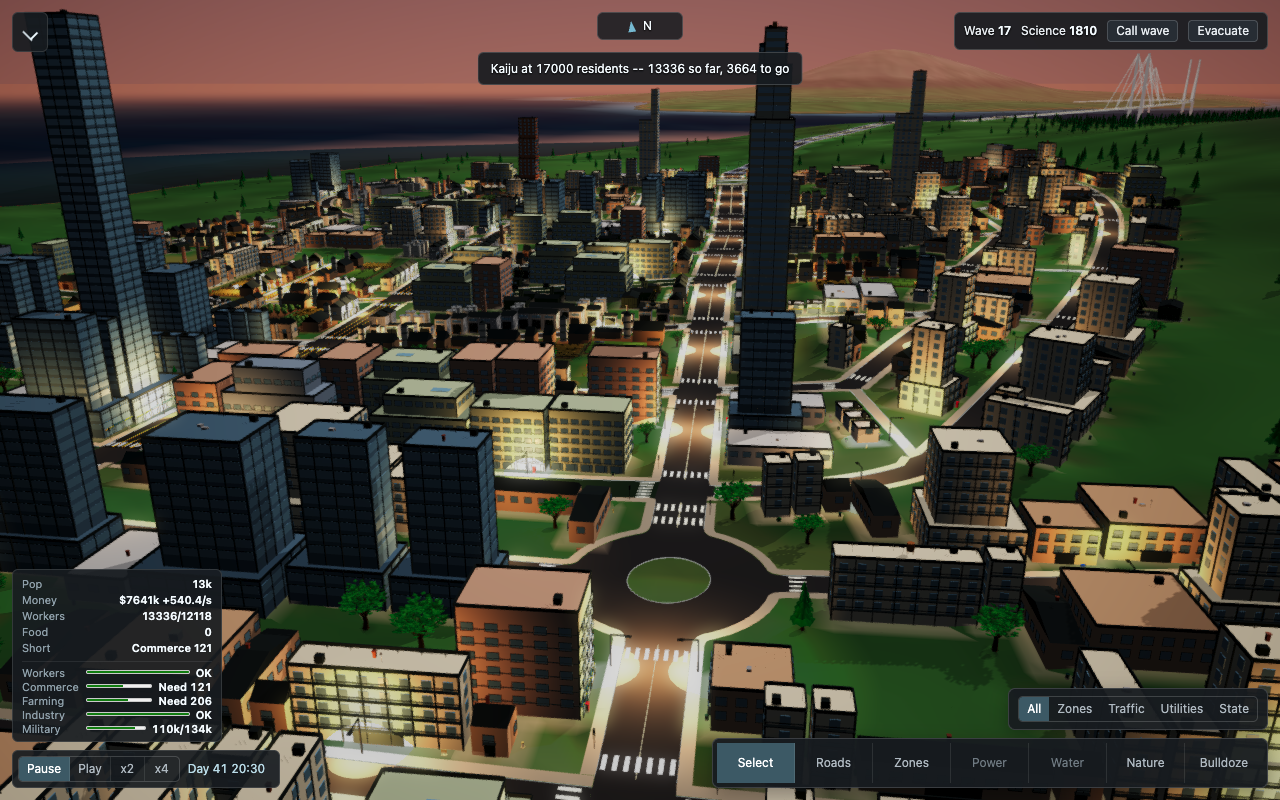
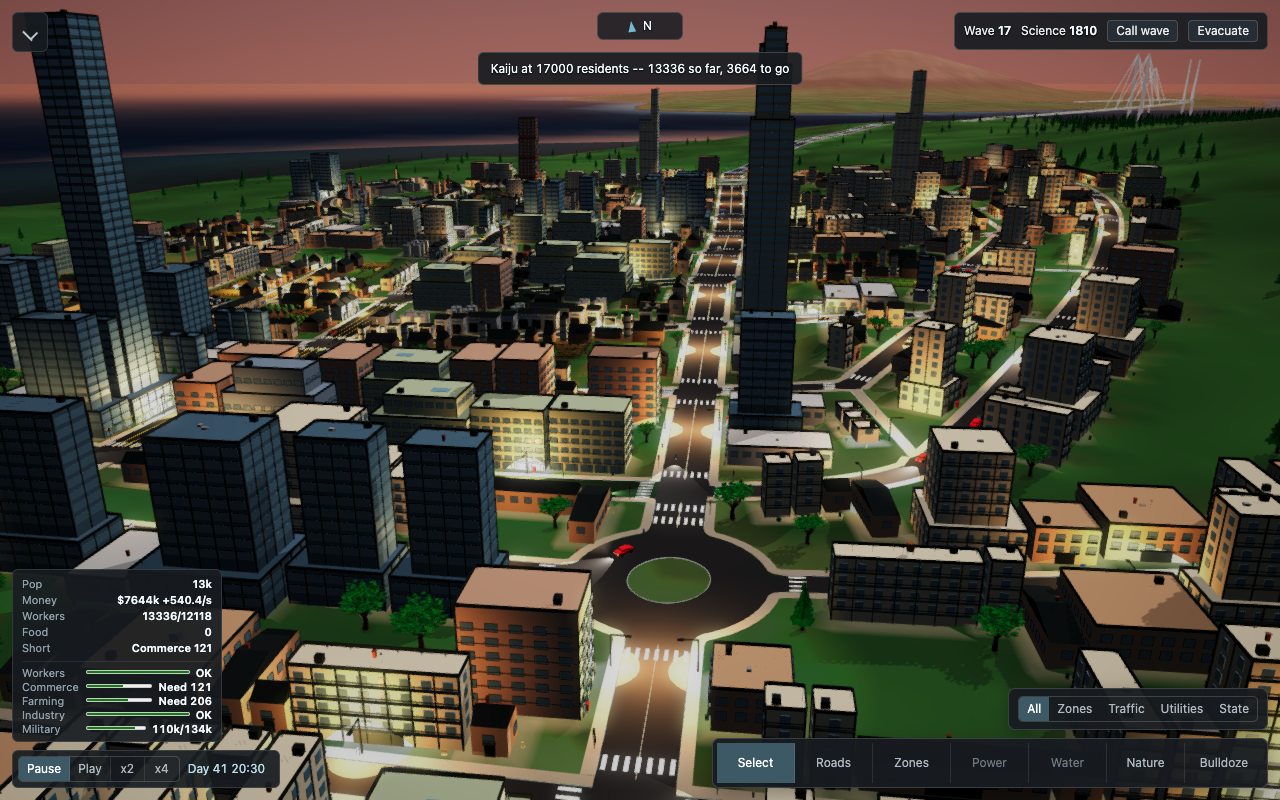
Run the clock before shooting, so the README captures have traffic on them
The city boots paused. The captures were therefore of 166 cars standing on
their spawn points, which is why the streets looked empty -- and app.ts already
documents the hook that would have caught it: moverPositions exists "so a
measurement harness can prove the city was actually running".

The script now presses Play, waits until moverPositions actually changes between
two reads, lets the traffic spread for six seconds, and then pauses again. It
pauses because a screenshot shows position, not motion, while running on costs
about an hour of game time every eight seconds of wall clock -- the first fix
came back with the city an hour later and in a different light than the save
records. The saved hour is written back through the sun slider and asserted
within 0.05 before any shot is taken, for the same reason the camera is never
touched: the fixture decides what the captures look like.

Two more refusals, so this cannot ship wrong again: no traffic on the roads, and
an hour that is not the one the save carries.

diff --git a/logics/tasks/task_054_orchestrate_the_demo_swap_and_readme_correction.md b/logics/tasks/task_054_orchestrate_the_demo_swap_and_readme_correction.md
@@ -46,10 +46,10 @@
 - request-AC3 -> `item_186_make_every_readme_claim_one_the_code_or_the_record_can_support`. Proof: Six README corrections, each against a named source: the missing-features paragraph (parcelDemandLimits, CityEconomy, the upgrade web all ship; services and redevelopment do not), zoning by BuildingKind rather than low/dense, eight road types rather than five, five select views rather than two, power and water added, and the unsourced Apple M3 Pro frame rate replaced with the city size perf/history.jsonl holds plus an explicit statement that no device frame rate has been measured. The three Mermaid diagrams were checked and left unchanged.
 
 # Validation
-- (no validation recorded yet)
 - command: `npm run ci` | result: passed | date: 2026-09-07 | note: 386 unit tests, 29 architecture and asset tests including the repinned Demo assertions, src/sim coverage 96.86%, build and typecheck clean, Logics lint OK. npm run test:e2e passed with the new Demo bundled.
 - Finish workflow executed on 2026-09-07.
 - Linked backlog/request close verification passed.
+- Capture correction: the first three captures were taken with the simulation paused, so the streets were empty. scripts/readme-shots.mjs now runs the clock until stats().moverPositions changes, spreads the traffic for six seconds, pauses, restores the save's hour through the sun slider and asserts it within 0.05, then shoots. Retaken with 166 cars visible across the network and the clock reading day 41 20:30 in all three, matching the save. The script refuses to shoot on no traffic, a drifted hour, a drifted camera, or any page error. biome clean over 158 files; node --test tests/*.mjs 29 pass.
 
 # Report
 - Not started.

diff --git a/docs/media/README.md b/docs/media/README.md
@@ -38,9 +38,9 @@ what a visitor sees.
 | [`buildings-urban-distant.png`](buildings-urban-distant.png) | `1c4c485` 2026-09-07 | Diversify city buildings and towers and refine the kaiju model | 1795 KB |
 | [`buildings-urban-district.png`](buildings-urban-district.png) | `1c4c485` 2026-09-07 | Diversify city buildings and towers and refine the kaiju model | 1973 KB |
 | [`buildings-urban-mobile.png`](buildings-urban-mobile.png) | `1c4c485` 2026-09-07 | Diversify city buildings and towers and refine the kaiju model | 490 KB |
-| [`city-jump-curves.png`](city-jump-curves.png) | `272f1e0` 2026-08-27 | Add curved-road README capture | 1136 KB |
-| [`city-jump-traffic.png`](city-jump-traffic.png) | `101eea3` 2026-08-29 | Refresh README screenshots | 837 KB |
-| [`city-jump.png`](city-jump.png) | `d0b1c4f` 2026-08-27 | Establish repository documentation | 1098 KB |
+| [`city-jump-curves.png`](city-jump-curves.png) | `272f1e0` 2026-08-27 | Add curved-road README capture | 1143 KB |
+| [`city-jump-traffic.png`](city-jump-traffic.png) | `101eea3` 2026-08-29 | Refresh README screenshots | 848 KB |
+| [`city-jump.png`](city-jump.png) | `d0b1c4f` 2026-08-27 | Establish repository documentation | 1105 KB |
 | [`kaiju-refined-profile.png`](kaiju-refined-profile.png) | `1c4c485` 2026-09-07 | Diversify city buildings and towers and refine the kaiju model | 281 KB |
 | [`terrain-clearance-day.png`](terrain-clearance-day.png) | `a4c1d2d` 2026-09-07 | Fix terrain clearance and smooth roundabout road connections | 1311 KB |
 | [`terrain-clearance-night.png`](terrain-clearance-night.png) | `a4c1d2d` 2026-09-07 | Fix terrain clearance and smooth roundabout road connections | 1200 KB |

diff --git a/logics/backlog/item_185_retake_the_readme_captures_from_the_demo_on_its_own_framing.md b/logics/backlog/item_185_retake_the_readme_captures_from_the_demo_on_its_own_framing.md
@@ -43,6 +43,7 @@
 # Decision framing
 - Product framing: Not needed
 - Architecture framing: Not needed
+- Follow-up after the first attempt shipped empty streets. The city boots paused, so the captures were of stationary traffic sitting on its spawn points. The script now presses Play, waits until stats().moverPositions actually changes between two reads - the hook src/app/app.ts documents as existing so a harness can prove the city was running - lets the cars spread for six seconds, then pauses again. Pausing before the shot matters because a screenshot cannot show motion, only position, while running on costs about an hour of game time per eight seconds of wall clock and reshot the city in a different light than the save records. The saved hour is then written back through the sun slider and asserted within 0.05 before shooting, for the same reason the camera is never touched: the fixture decides what the captures look like. Two new refusals: no traffic on the roads, and an hour that is not the save's.
 
 # Links
 - Product brief(s): `prod_039_a_shop_window_that_shows_the_game_that_exists`
